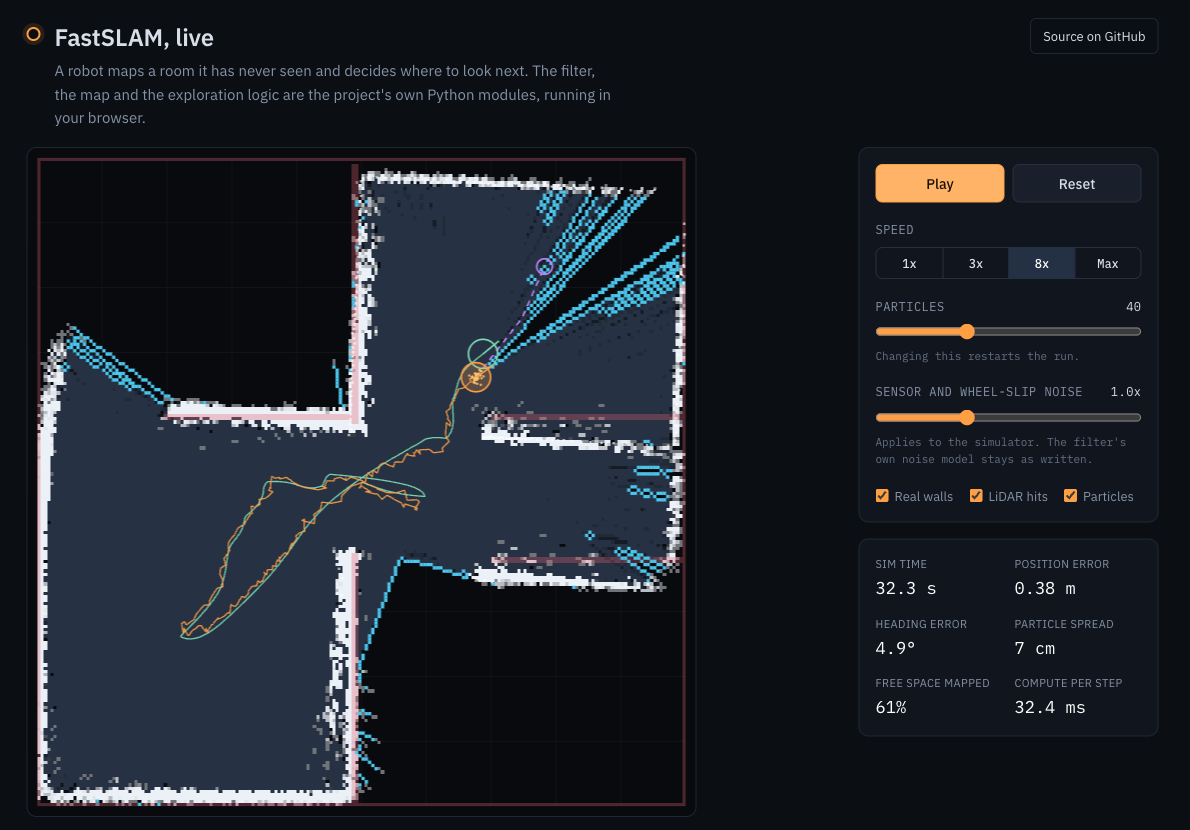
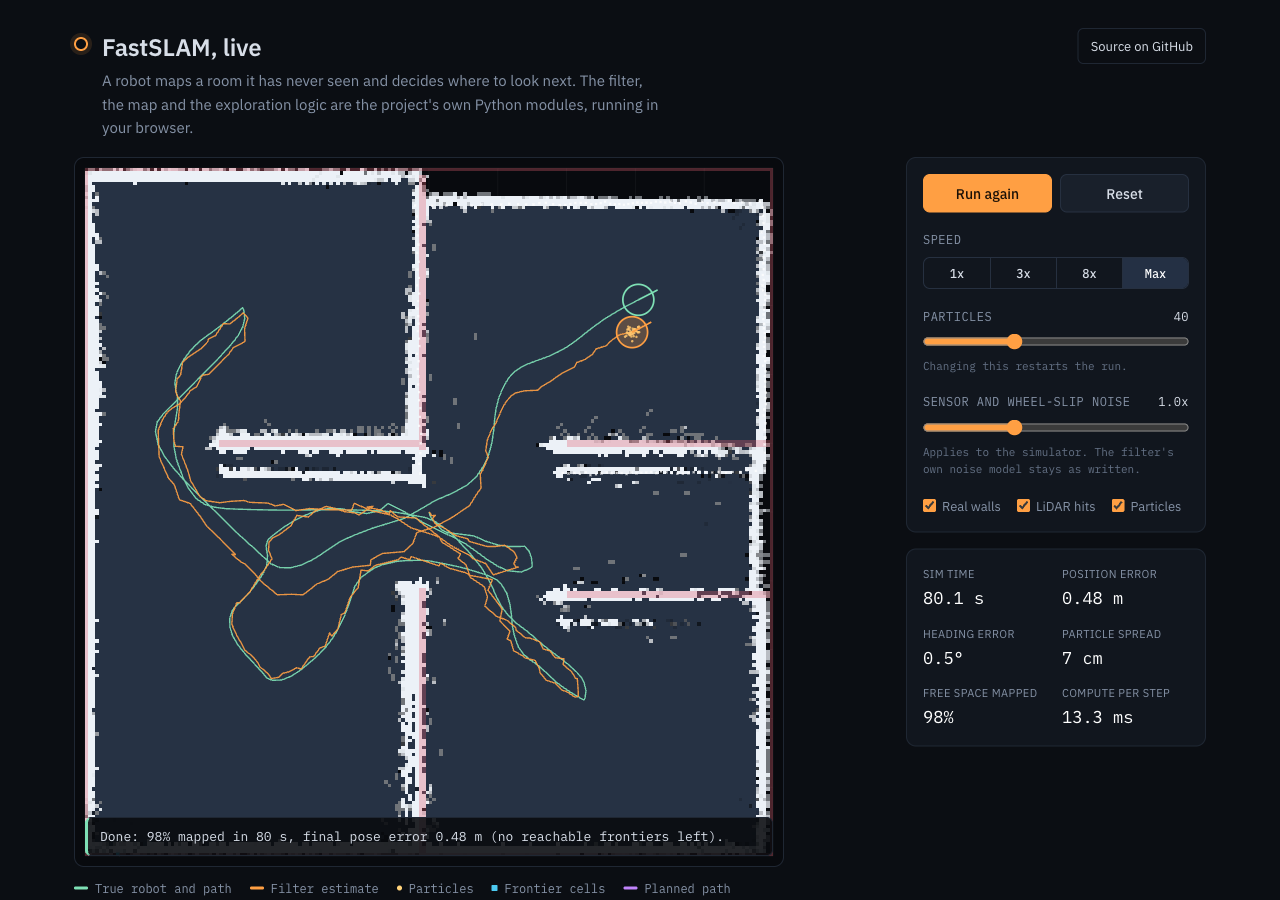
Refresh docs/demo.png with a finished run from the live demo

diff --git a/README.md b/README.md
@@ -8,7 +8,7 @@ Group project of three (Intelligent Robotics, University of Birmingham). Ramy Me
 
 **Live demo: [fastslam-demo-production.up.railway.app](https://fastslam-demo-production.up.railway.app)** (runs in the browser, no install)
 
-[![The browser demo mid-run: estimated map, true and estimated trails, frontier cells and the planned path](docs/demo.png)](https://fastslam-demo-production.up.railway.app)
+[![The browser demo after a run: estimated map, true and estimated trails, and the Done summary with coverage, time and final pose error](docs/demo.png)](https://fastslam-demo-production.up.railway.app)
 
 ## How the SLAM works
 
